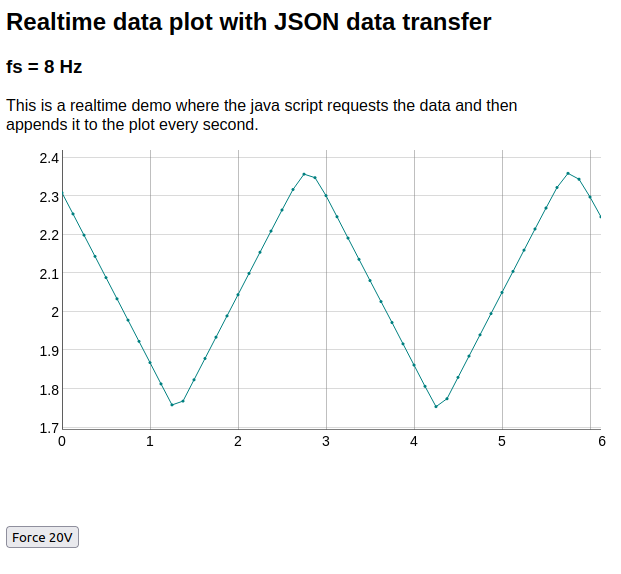
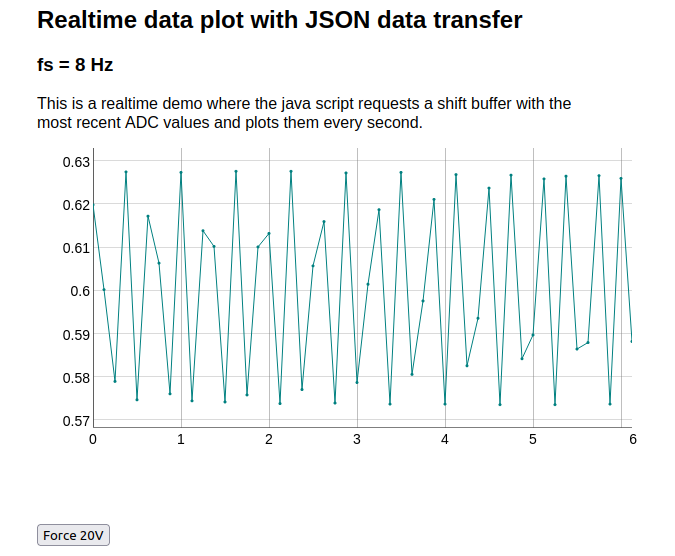
Updated screenshot and website.

diff --git a/ads1115_demo/website/ads1115.html b/ads1115_demo/website/ads1115.html
@@ -18,15 +18,13 @@
 
       <h3>fs = <span id="fs">00</span> Hz</h3>
 
-	<p>This is a realtime demo where the java script requests the data
-	  and then appends it to the plot every second.</p>
+	<p>This is a realtime demo where the java script requests a
+          shift buffer with the most recent ADC values and 
+          plots them every second.</p>
 	
 	<div id="div_g" style="width:600px; height:300px;"></div>
 	
 	<script type="text/javascript">
-	  // max samples for dygraph
-	  var maxSamples = 60;
-
 	  // relative path to the sensor data for get/post:
 	  var serverPath = "/sensor/:80";
 	  
